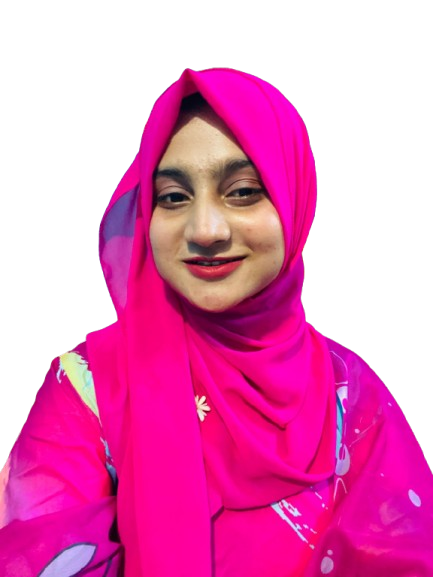
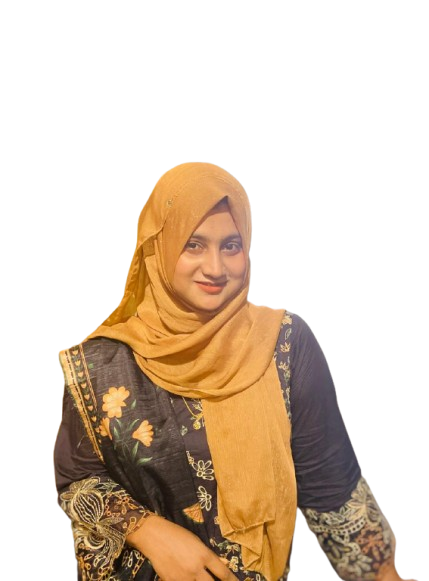
feat(hero): update hero section with new content and layout

diff --git a/src/components/Hero.tsx b/src/components/Hero.tsx
@@ -11,100 +11,160 @@ export default function Hero() {
       id="home"
       className="min-h-screen flex items-center justify-center bg-gradient-to-br from-purple-100 via-purple-50 to-white pt-20"
     >
-      <div className="max-w-6xl mx-auto px-4 sm:px-6 lg:px-8">
+      <div className="max-w-6xl mx-auto px-4 sm:px-6 lg:px-8 w-full">
         <div className="flex flex-col lg:flex-row items-center justify-between gap-12">
-          {/* Text Content */}
+
+          {/* Left — About Me */}
           <motion.div
-            className="flex-1 text-center lg:text-left"
-            initial={{ opacity: 0, y: 20 }}
-            animate={{ opacity: 1, y: 0 }}
-            transition={{ duration: 0.8 }}
+            className="flex-1 text-center lg:text-left space-y-4"
+            initial={{ opacity: 0, x: -30 }}
+            animate={{ opacity: 1, x: 0 }}
+            transition={{ duration: 0.8, delay: 0.2 }}
           >
-            <motion.h1
-              className="text-5xl md:text-7xl font-bold text-purple-900 mb-6"
-              initial={{ opacity: 0, y: 20 }}
-              animate={{ opacity: 1, y: 0 }}
-              transition={{ duration: 0.8, delay: 0.2 }}
-            >
-              Ishraq Samiha
-            </motion.h1>
-
-            <motion.p
-              className="text-xl md:text-2xl text-purple-700 mb-4"
-              initial={{ opacity: 0, y: 20 }}
-              animate={{ opacity: 1, y: 0 }}
-              transition={{ duration: 0.8, delay: 0.4 }}
-            >
-              Lecturer | Researcher | Developer
-            </motion.p>
-
-            <motion.p
-              className="text-lg text-gray-600 mb-8 max-w-2xl mx-auto lg:mx-0"
-              initial={{ opacity: 0, y: 20 }}
-              animate={{ opacity: 1, y: 0 }}
-              transition={{ duration: 0.8, delay: 0.6 }}
-            >
-              Passionate about Blockchain, Artificial Intelligence, and Deep
-              Learning. Committed to making a positive impact through research
-              and education.
-            </motion.p>
-
-            <motion.div
-              className="flex flex-col sm:flex-row gap-4 justify-center lg:justify-start"
-              initial={{ opacity: 0, y: 20 }}
-              animate={{ opacity: 1, y: 0 }}
-              transition={{ duration: 0.8, delay: 0.8 }}
-            >
-              <Link href="#contact" className="btn-primary">
-                Get in Touch
-              </Link>
-              <Link
-                href="#research"
-                className="bg-white text-purple-600 px-6 py-3 rounded-full font-medium border-2 border-purple-600 hover:bg-purple-50 transition-all duration-300 shadow-md inline-block text-center"
-              >
-                View Research
-              </Link>
-              <a
-                href="/cv/Ishraq_Samiha_CV.pdf"
-                download="Ishraq_Samiha_CV.pdf"
-                className="bg-purple-100 text-purple-700 px-6 py-3 rounded-full font-medium border-2 border-purple-300 hover:bg-purple-200 transition-all duration-300 shadow-md inline-flex items-center justify-center gap-2"
-              >
-                <Download size={20} />
-                Download CV
-              </a>
-            </motion.div>
+            <h2 className="text-3xl font-bold text-purple-900">About Me</h2>
+            <p className="text-base text-gray-600 leading-relaxed">
+              I am a{" "}
+              <span className="text-purple-600 font-semibold">
+                Lecturer in the Department of Computer Science and Engineering
+                at East Delta University, Bangladesh
+              </span>
+              , and currently pursuing an{" "}
+              <span className="text-purple-600 font-semibold">
+                M.Sc. in Computer Science and Engineering
+              </span>{" "}
+              at Chittagong University of Engineering and Technology (CUET). I
+              earned my{" "}
+              <span className="text-purple-600 font-semibold">
+                B.Sc. in Computer Science and Engineering from CUET
+              </span>{" "}
+              with a CGPA of{" "}
+              <span className="text-purple-600 font-semibold">3.72/4.00</span>.
+            </p>
+            <p className="text-base text-gray-600 leading-relaxed">
+              My research interests lie at the intersection of{" "}
+              <span className="text-purple-600 font-semibold">
+                Blockchain Technology, Cybersecurity, Artificial Intelligence,
+                Machine Learning, and Deep Learning
+              </span>
+              , with a focus on developing secure, privacy-preserving, and
+              intelligent systems. My recent work includes blockchain-based
+              e-waste resource recovery, cross-chain blockchain security,
+              zero-knowledge proof (ZKP) applications, multi-blockchain data
+              backup systems, sentiment analysis, and AI-driven biodiversity
+              conservation.
+            </p>
+            <p className="text-base text-gray-600 leading-relaxed">
+              I have authored multiple research papers published in{" "}
+              <span className="text-purple-600 font-semibold">
+                IEEE conferences and Springer proceedings
+              </span>
+              , with additional work currently under preparation. As an educator
+              and researcher, I am passionate about mentoring students,
+              advancing impactful research, and developing innovative solutions
+              to real-world challenges.
+            </p>
+            <p className="text-base text-gray-600 leading-relaxed">
+              I am actively seeking{" "}
+              <span className="text-purple-600 font-semibold">
+                collaborative research opportunities and fully funded Ph.D.
+                positions
+              </span>{" "}
+              in the areas of blockchain, cybersecurity, artificial intelligence,
+              and trustworthy intelligent systems. I welcome opportunities to
+              collaborate with researchers, academic institutions, and industry
+              partners on cutting-edge research projects.
+            </p>
           </motion.div>
 
-          {/* Profile Picture */}
+          {/* Right — Hero content on top, profile picture below */}
           <motion.div
-            className="flex-shrink-0"
-            initial={{ opacity: 0, scale: 0.8 }}
-            animate={{ opacity: 1, scale: 1 }}
-            transition={{ duration: 0.8, delay: 0.4 }}
+            className="flex-shrink-0 flex flex-col items-center gap-8"
+            initial={{ opacity: 0, x: 30 }}
+            animate={{ opacity: 1, x: 0 }}
+            transition={{ duration: 0.8, delay: 0.2 }}
           >
-            <div className="relative">
-              {/* Decorative Background Glow */}
-              <div className="absolute inset-0 bg-gradient-to-br from-purple-300 to-purple-500 rounded-full blur-3xl opacity-30 animate-pulse"></div>
+            {/* Hero Text */}
+            <div className="text-center space-y-4">
+              <motion.h1
+                className="text-4xl md:text-5xl font-bold text-purple-900"
+                initial={{ opacity: 0, y: 20 }}
+                animate={{ opacity: 1, y: 0 }}
+                transition={{ duration: 0.8, delay: 0.4 }}
+              >
+                Ishraq Samiha
+              </motion.h1>
 
-              {/* Profile Image Container with Gradient Border */}
-              <div className="relative w-64 h-64 md:w-80 md:h-80 lg:w-96 lg:h-96">
-                {/* Gradient Border */}
-                <div className="absolute inset-0 bg-gradient-to-br from-purple-400 via-purple-500 to-purple-600 rounded-full p-1.5">
-                  {/* Inner container matching hero background */}
-                  <div className="relative w-full h-full rounded-full bg-gradient-to-br from-purple-100 via-purple-50 to-white overflow-hidden shadow-2xl">
-                    <Image
-                      src="/images/profile.png"
-                      alt="Ishraq Samiha"
-                      fill
-                      sizes="(max-width: 768px) 256px, (max-width: 1024px) 320px, 384px"
-                      className="object-cover scale-100"
-                      style={{ objectPosition: "center center" }}
-                      priority
-                    />
+              <motion.p
+                className="text-lg md:text-xl text-purple-700"
+                initial={{ opacity: 0, y: 20 }}
+                animate={{ opacity: 1, y: 0 }}
+                transition={{ duration: 0.8, delay: 0.6 }}
+              >
+                Lecturer | Researcher | Developer
+              </motion.p>
+
+              <motion.p
+                className="text-base text-gray-600 max-w-sm mx-auto"
+                initial={{ opacity: 0, y: 20 }}
+                animate={{ opacity: 1, y: 0 }}
+                transition={{ duration: 0.8, delay: 0.7 }}
+              >
+                Passionate about Blockchain, Artificial Intelligence, and Deep
+                Learning. Committed to making a positive impact through research
+                and education.
+              </motion.p>
+
+              <motion.div
+                className="flex flex-col sm:flex-row gap-3 justify-center"
+                initial={{ opacity: 0, y: 20 }}
+                animate={{ opacity: 1, y: 0 }}
+                transition={{ duration: 0.8, delay: 0.8 }}
+              >
+                <Link href="#contact" className="btn-primary">
+                  Get in Touch
+                </Link>
+                <Link
+                  href="#research"
+                  className="bg-white text-purple-600 px-6 py-3 rounded-full font-medium border-2 border-purple-600 hover:bg-purple-50 transition-all duration-300 shadow-md inline-block text-center"
+                >
+                  View Research
+                </Link>
+                <a
+                  href="/cv/Ishraq_Samiha_CV.pdf"
+                  download="Ishraq_Samiha_CV.pdf"
+                  className="bg-purple-100 text-purple-700 px-6 py-3 rounded-full font-medium border-2 border-purple-300 hover:bg-purple-200 transition-all duration-300 shadow-md inline-flex items-center justify-center gap-2"
+                >
+                  <Download size={20} />
+                  Download CV
+                </a>
+              </motion.div>
+            </div>
+
+            {/* Profile Picture */}
+            <motion.div
+              initial={{ opacity: 0, scale: 0.8 }}
+              animate={{ opacity: 1, scale: 1 }}
+              transition={{ duration: 0.8, delay: 1.0 }}
+            >
+              <div className="relative">
+                <div className="absolute inset-0 bg-gradient-to-br from-purple-300 to-purple-500 rounded-full blur-3xl opacity-30 animate-pulse"></div>
+                <div className="relative w-56 h-56 md:w-64 md:h-64 lg:w-72 lg:h-72">
+                  <div className="absolute inset-0 bg-gradient-to-br from-purple-400 via-purple-500 to-purple-600 rounded-full p-1.5">
+                    <div className="relative w-full h-full rounded-full bg-gradient-to-br from-purple-100 via-purple-50 to-white overflow-hidden shadow-2xl">
+                      <Image
+                        src="/images/profile.png"
+                        alt="Ishraq Samiha"
+                        fill
+                        sizes="(max-width: 768px) 224px, (max-width: 1024px) 256px, 288px"
+                        className="object-cover scale-100"
+                        style={{ objectPosition: "center center" }}
+                        priority
+                      />
+                    </div>
                   </div>
                 </div>
               </div>
-            </div>
+            </motion.div>
           </motion.div>
         </div>
 
@@ -113,9 +173,9 @@ export default function Hero() {
           className="mt-16 text-center"
           initial={{ opacity: 0 }}
           animate={{ opacity: 1 }}
-          transition={{ duration: 1, delay: 1.2 }}
+          transition={{ duration: 1, delay: 1.4 }}
         >
-          <Link href="#about" className="inline-block animate-bounce">
+          <Link href="#experience" className="inline-block animate-bounce">
             <ArrowDown className="text-purple-600" size={32} />
           </Link>
         </motion.div>

diff --git a/src/app/page.tsx b/src/app/page.tsx
@@ -1,5 +1,4 @@
 import Hero from "@/components/Hero";
-import About from "@/components/About";
 import Experience from "@/components/Experience";
 import Education from "@/components/Education";
 import Skills from "@/components/Skills";
@@ -11,7 +10,6 @@ export default function Home() {
   return (
     <>
       <Hero />
-      <About />
       <Experience />
       <Education />
       <Skills />